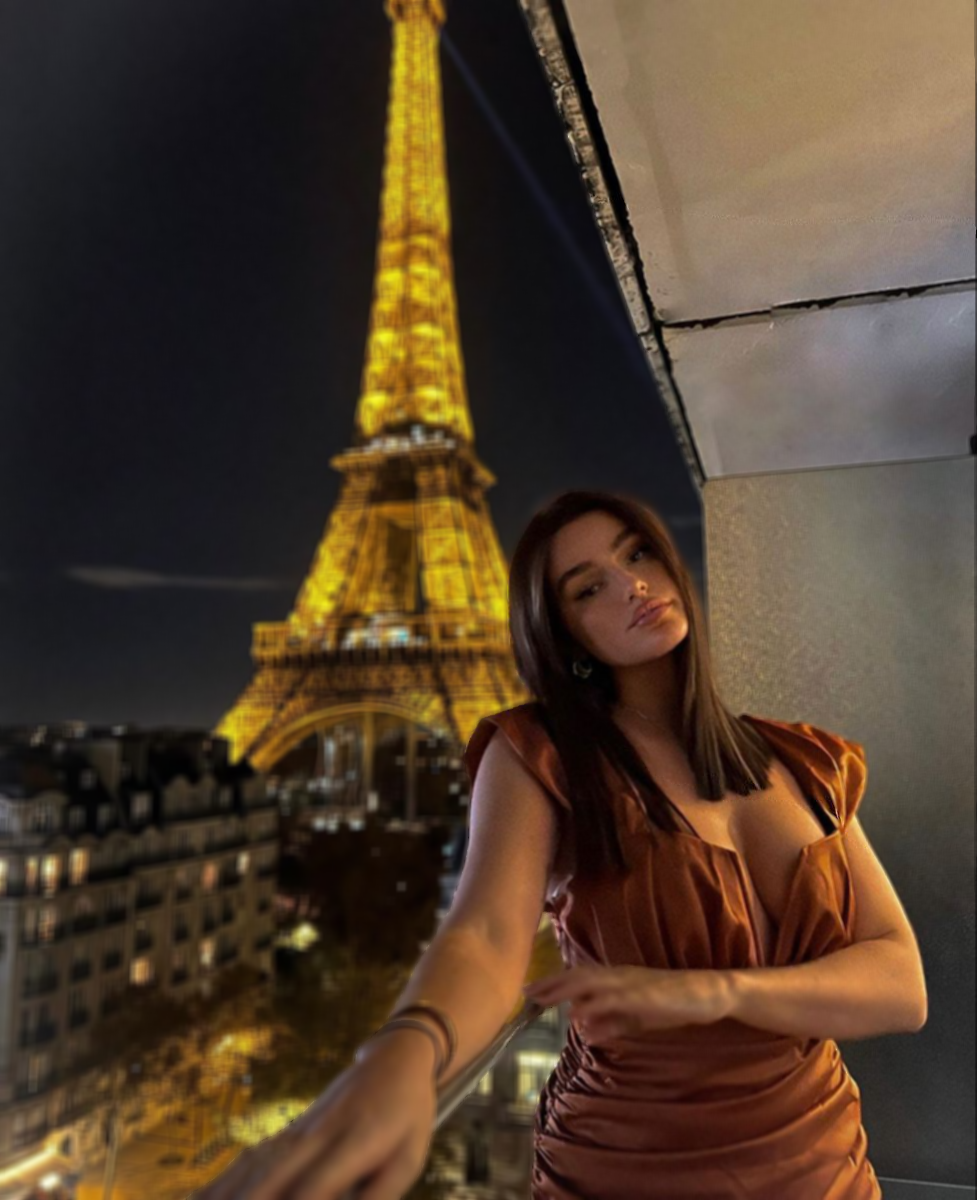
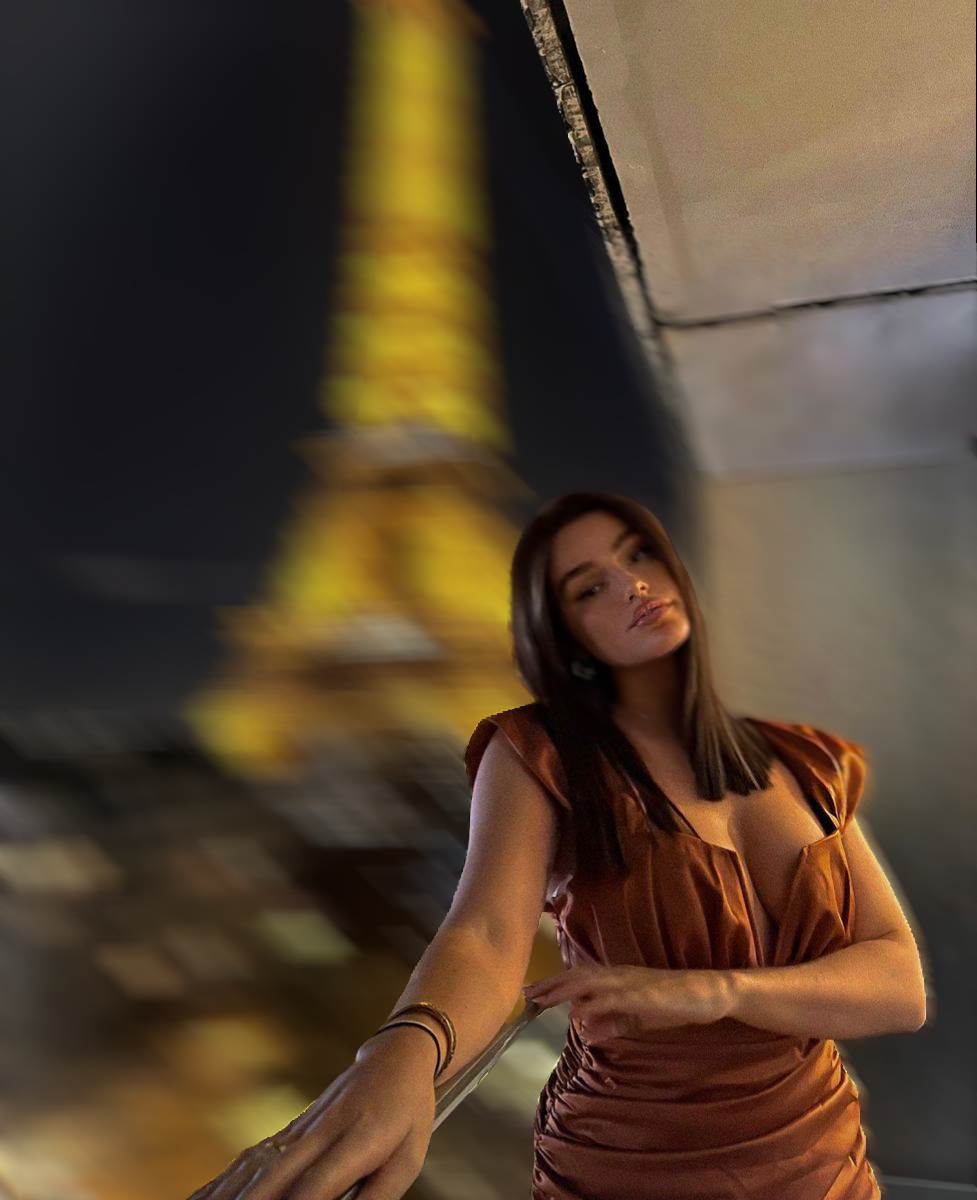
working python test for paper hexagon separable kernelspython test.pypython test.py

diff --git a/testing/test.py b/testing/test.py
@@ -3,6 +3,7 @@ import numpy as np
 from PIL import Image
 import os
 from typing import Tuple
+from numba import njit
 
 def read_image_to_rgba_uint32(image_path):
     """
@@ -54,70 +55,178 @@ def read_depth_map_to_float32(depth_map_path):
     
     return depth_normalized, width, height
 
+@njit
+def srgb_to_linear(srgb_value: float) -> float:
+    """Convert from sRGB to linear RGB color space."""
+    if srgb_value <= 0.04045:
+        return srgb_value / 12.92
+    else:
+        return ((srgb_value + 0.055) / 1.055) ** 2.4
+
+@njit
+def linear_to_srgb(linear_value: float) -> float:
+    """Convert from linear RGB to sRGB color space."""
+    if linear_value <= 0.0031308:
+        return linear_value * 12.92
+    else:
+        return 1.055 * (linear_value ** (1.0/2.4)) - 0.055
+
+@njit
 def unpack_rgba_uint32(rgba_uint32: np.ndarray) -> np.ndarray:
-    """Unpack uint32 RGBA values into a float32 RGBA array with values 0-1."""
-    r = ((rgba_uint32 >> 24) & 0xFF).astype(np.float32) / 255.0
-    g = ((rgba_uint32 >> 16) & 0xFF).astype(np.float32) / 255.0
-    b = ((rgba_uint32 >> 8) & 0xFF).astype(np.float32) / 255.0
-    a = (rgba_uint32 & 0xFF).astype(np.float32) / 255.0
-    return np.stack([r, g, b, a], axis=-1)
-
-def pack_rgba_float32(rgba_float32: np.ndarray) -> np.ndarray:
-    """Pack float32 RGBA values (0-1) into uint32 RGBA values."""
-    rgba_uint8 = (rgba_float32 * 255.0).astype(np.uint32)
-    return (rgba_uint8[..., 0] << 24) | (rgba_uint8[..., 1] << 16) | \
-           (rgba_uint8[..., 2] << 8) | rgba_uint8[..., 3]
-
-def box_blur_horizontal(rgba_uint32: np.ndarray, coc_array: np.ndarray) -> np.ndarray:
-    """Apply horizontal box blur based on CoC values."""
+    """Unpack uint32 RGBA values into a float32 RGBA array with values 0-1 in linear RGB space."""
     height, width = rgba_uint32.shape
-    rgba_float = unpack_rgba_uint32(rgba_uint32)
+    result = np.zeros((height, width, 4), dtype=np.float32)
+    
+    for y in range(height):
+        for x in range(width):
+            pixel = rgba_uint32[y, x]
+            
+            # Convert sRGB to linear RGB for RGB channels
+            r_srgb = ((pixel >> 24) & 0xFF) / 255.0
+            g_srgb = ((pixel >> 16) & 0xFF) / 255.0
+            b_srgb = ((pixel >> 8) & 0xFF) / 255.0
+            a = (pixel & 0xFF) / 255.0  # Alpha stays as is
+            
+            # Convert to linear RGB
+            result[y, x, 0] = srgb_to_linear(r_srgb)
+            result[y, x, 1] = srgb_to_linear(g_srgb)
+            result[y, x, 2] = srgb_to_linear(b_srgb)
+            result[y, x, 3] = a
+    return result
+
+@njit
+def pack_rgba_float32(rgba_float32: np.ndarray) -> np.ndarray:
+    """Pack float32 RGBA values (0-1) in linear RGB space into uint32 RGBA values in sRGB space."""
+    height, width = rgba_float32.shape[:2]
+    result = np.zeros((height, width), dtype=np.uint32)
+    
+    for y in range(height):
+        for x in range(width):
+            # Convert from linear RGB to sRGB for RGB channels
+            r_linear = rgba_float32[y, x, 0]
+            g_linear = rgba_float32[y, x, 1]
+            b_linear = rgba_float32[y, x, 2]
+            a = rgba_float32[y, x, 3]  # Alpha stays as is
+            
+            # Convert to sRGB
+            r_srgb = linear_to_srgb(r_linear)
+            g_srgb = linear_to_srgb(g_linear)
+            b_srgb = linear_to_srgb(b_linear)
+            
+            # Pack as 8-bit values
+            r = int(r_srgb * 255)
+            g = int(g_srgb * 255)
+            b = int(b_srgb * 255)
+            a = int(a * 255)
+            
+            # Clamp to valid range
+            r = max(0, min(255, r))
+            g = max(0, min(255, g))
+            b = max(0, min(255, b))
+            a = max(0, min(255, a))
+            
+            result[y, x] = (r << 24) | (g << 16) | (b << 8) | a
+    return result
+
+@njit
+def generate_sample_offsets(num_samples: int, angle_deg: float) -> np.ndarray:
+    """Generate sample offsets along a line at the specified angle.
+    Returns array of (x, y) offsets normalized to unit length."""
+    # Convert angle to radians
+    angle_rad = angle_deg * np.pi / 180.0
+    
+    # Create evenly spaced offsets from -0.5 to 0.5
+    offsets = np.zeros((num_samples, 2), dtype=np.float32)
+    step = 1.0 / (num_samples - 1)
+    
+    for i in range(num_samples):
+        t = -0.5 + i * step
+        offsets[i, 0] = t * np.cos(angle_rad)  # x
+        offsets[i, 1] = t * np.sin(angle_rad)  # y
+    
+    return offsets
+
+@njit
+def apply_directional_blur(rgba_float: np.ndarray, coc_array: np.ndarray, 
+                         offsets: np.ndarray, max_coc: float) -> np.ndarray:
+    """Apply blur along the direction specified by the offsets."""
+    height, width = rgba_float.shape[:2]
     result = np.zeros_like(rgba_float)
     
     for y in range(height):
         for x in range(width):
-            radius = int(np.ceil(coc_array[y, x]))
-            if radius == 0:
+            coc = coc_array[y, x]
+            if coc == 0:
                 result[y, x] = rgba_float[y, x]
                 continue
-                
-            # Calculate valid x range for sampling
-            x_start = max(0, x - radius)
-            x_end = min(width, x + radius + 1)
             
-            # Calculate average color within the box
-            sample_colors = rgba_float[y, x_start:x_end]
-            result[y, x] = np.mean(sample_colors, axis=0)
-    
-    return pack_rgba_float32(result)
+            # Initialize accumulators
+            color_sum = np.zeros(4, dtype=np.float32)
+            weight_sum = 0.0
+            
+            # Sample along the scaled offsets
+            for i in range(len(offsets)):
+                # Calculate sample position
+                sample_x = int(x + offsets[i, 0] * coc)
+                sample_y = int(y + offsets[i, 1] * coc)
 
-def box_blur_vertical(rgba_uint32: np.ndarray, coc_array: np.ndarray) -> np.ndarray:
-    """Apply vertical box blur based on CoC values."""
-    height, width = rgba_uint32.shape
-    rgba_float = unpack_rgba_uint32(rgba_uint32)
-    result = np.zeros_like(rgba_float)
-    
-    for x in range(width):
-        for y in range(height):
-            radius = int(np.ceil(coc_array[y, x]))
-            if radius == 0:
-                result[y, x] = rgba_float[y, x]
-                continue
+                if sample_x < 0 or sample_x >= width or sample_y < 0 or sample_y >= height:
+                    continue
                 
-            # Calculate valid y range for sampling
-            y_start = max(0, y - radius)
-            y_end = min(height, y + radius + 1)
+                sample_coc = coc_array[sample_y, sample_x]
+                
+                dist = np.sqrt((sample_x - x)**2 + (sample_y - y)**2)
+                if dist > sample_coc:
+                    continue
+                
+                weight = 1.0
+                
+                # Add to accumulator
+                color_sum += rgba_float[sample_y, sample_x] * weight
+                weight_sum += weight
             
-            # Calculate average color within the box
-            sample_colors = rgba_float[y_start:y_end, x]
-            result[y, x] = np.mean(sample_colors, axis=0)
+            # Calculate final color
+            if weight_sum > 0:
+                result[y, x] = color_sum / weight_sum
+            else:
+                result[y, x] = rgba_float[y, x]
     
-    return pack_rgba_float32(result)
+    return result
+
+@njit
+def combine_less_bright(img1: np.ndarray, img2: np.ndarray) -> np.ndarray:
+    """Create a new image by taking the less bright pixel from each source image."""
+    height, width = img1.shape[:2]
+    result = np.zeros_like(img1)
+    
+    for y in range(height):
+        for x in range(width):
+            # Calculate brightness (using luminance formula)
+            brightness1 = 0.2126 * img1[y, x, 0] + 0.7152 * img1[y, x, 1] + 0.0722 * img1[y, x, 2]
+            brightness2 = 0.2126 * img2[y, x, 0] + 0.7152 * img2[y, x, 1] + 0.0722 * img2[y, x, 2]
+            
+            # Choose the pixel with lower brightness
+            if brightness1 <= brightness2:
+                result[y, x] = img1[y, x]
+            else:
+                result[y, x] = img2[y, x]
+    
+    return result
 
 def save_rgba_uint32_as_image(rgba_uint32: np.ndarray, output_path: str) -> None:
     """Save an RGBA uint32 array as a PNG image."""
-    rgba_float = unpack_rgba_uint32(rgba_uint32)
-    rgba_uint8 = (rgba_float * 255).astype(np.uint8)
+    height, width = rgba_uint32.shape
+    rgba_uint8 = np.zeros((height, width, 4), dtype=np.uint8)
+    
+    # Directly extract bytes from the uint32 values
+    for y in range(height):
+        for x in range(width):
+            pixel = rgba_uint32[y, x]
+            rgba_uint8[y, x, 0] = (pixel >> 24) & 0xFF  # R
+            rgba_uint8[y, x, 1] = (pixel >> 16) & 0xFF  # G
+            rgba_uint8[y, x, 2] = (pixel >> 8) & 0xFF   # B
+            rgba_uint8[y, x, 3] = pixel & 0xFF          # A
+    
     Image.fromarray(rgba_uint8, 'RGBA').save(output_path)
 
 if __name__ == "__main__":
@@ -128,9 +237,10 @@ if __name__ == "__main__":
     image_path = os.path.join(script_dir, "image.jpg")
     depth_map_path = os.path.join(script_dir, "depth_map.png")
     
-    # Define constants for CoC calculation
+    # Define constants
     focus_depth = 0.4  # Focus on objects at depth 0.4 (normalized scale)
-    max_coc = 10.0     # Maximum circle of confusion radius in pixels
+    max_coc = 150.0    # Maximum circle of confusion radius in pixels
+    num_samples = int(max_coc/2)   # Number of samples per pass
     
     # Read the image into RGBA uint32 array
     rgba_array, img_width, img_height = read_image_to_rgba_uint32(image_path)
@@ -139,16 +249,41 @@ if __name__ == "__main__":
     depth_array, depth_width, depth_height = read_depth_map_to_float32(depth_map_path)
     
     # Compute Circle of Confusion (CoC) radius for each pixel
-    # Simple formula: |depth - focus_depth| * max_coc
-    coc_array = np.abs(depth_array - focus_depth) * max_coc
+    # Only blur objects closer than the focus plane
+    coc_array = np.where(depth_array > focus_depth, 0, np.abs(depth_array - focus_depth) * max_coc)
     
-    print("Applying horizontal blur...")
-    horizontal_blur = box_blur_horizontal(rgba_array, coc_array)
+    # Generate sample offsets for all passes
+    offsets_0deg = generate_sample_offsets(num_samples, 0)     # Horizontal (0°)
+    offsets_45deg = generate_sample_offsets(num_samples, 60)   # 45° diagonal
+    offsets_135deg = generate_sample_offsets(num_samples, 120) # 135° diagonal (45° + 90°)
     
-    print("Applying vertical blur...")
-    final_blur = box_blur_vertical(horizontal_blur, coc_array)
+    # Convert to float32 for processing
+    rgba_float = unpack_rgba_uint32(rgba_array)
     
-    # Save the result
-    output_path = os.path.join(script_dir, "blurred_output.png")
-    save_rgba_uint32_as_image(final_blur, output_path)
-    print(f"\nBlurred image saved as 'blurred_output.png'")
+    # Create first bokeh blur (0° -> 45°)
+    print("Creating first bokeh blur (0° -> 45°)...")
+    horizontal_blur = apply_directional_blur(rgba_float, coc_array, offsets_0deg, max_coc)
+    bokeh_45_float = apply_directional_blur(horizontal_blur, coc_array, offsets_45deg, max_coc)
+    
+    # Create second bokeh blur (0° -> 135°)
+    print("Creating second bokeh blur (0° -> 135°)...")
+    bokeh_135_float = apply_directional_blur(horizontal_blur, coc_array, offsets_135deg, max_coc)
+    
+    # Combine the two blurs by taking the less bright pixel
+    print("Combining the two bokeh blurs...")
+    combined_float = combine_less_bright(bokeh_45_float, bokeh_135_float)
+    
+    # Pack results back to uint32
+    bokeh_45 = pack_rgba_float32(bokeh_45_float)
+    bokeh_135 = pack_rgba_float32(bokeh_135_float)
+    combined = pack_rgba_float32(combined_float)
+    
+    # Save all results
+    save_rgba_uint32_as_image(bokeh_45, os.path.join(script_dir, "bokeh_45.png"))
+    save_rgba_uint32_as_image(bokeh_135, os.path.join(script_dir, "bokeh_135.png"))
+    save_rgba_uint32_as_image(combined, os.path.join(script_dir, "bokeh_combined.png"))
+    
+    print("Images saved:")
+    print("- bokeh_45.png (0° -> 45° blur)")
+    print("- bokeh_135.png (0° -> 135° blur)")
+    print("- bokeh_combined.png (combined result)")
